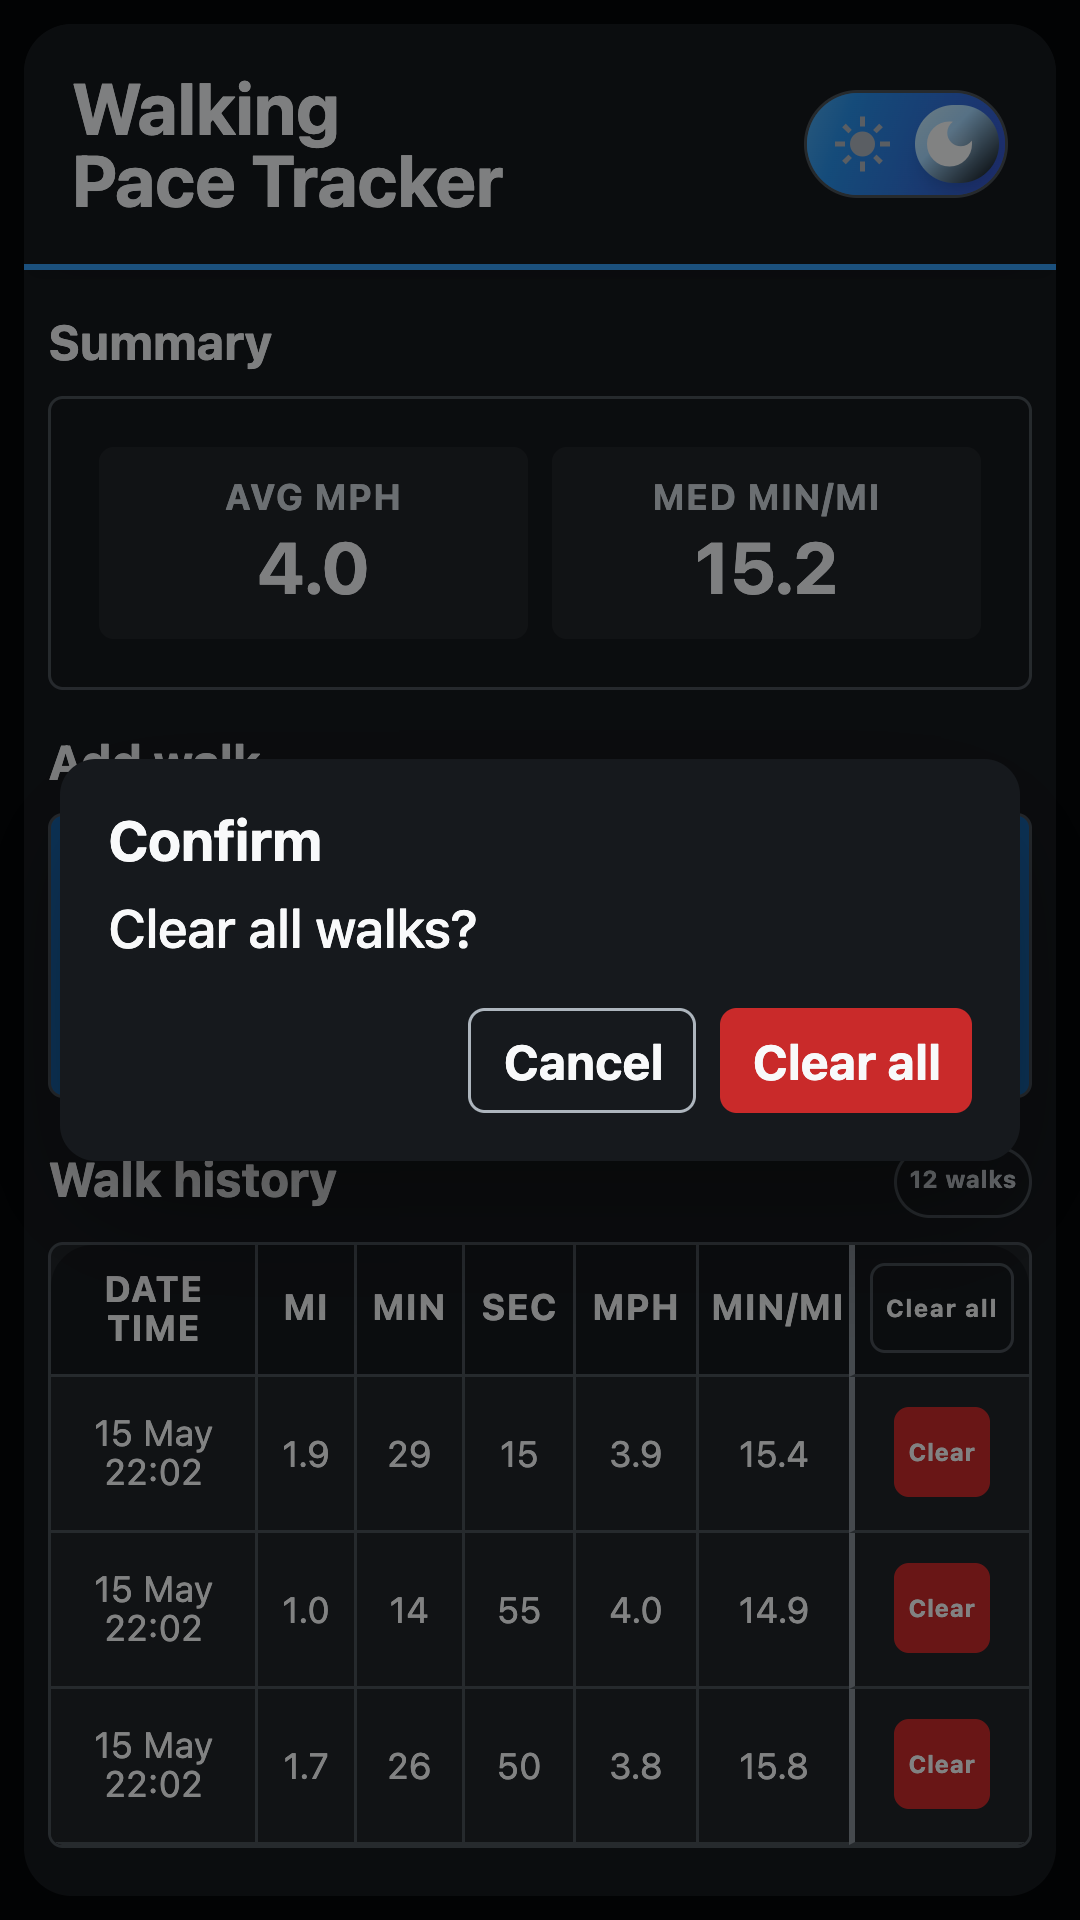
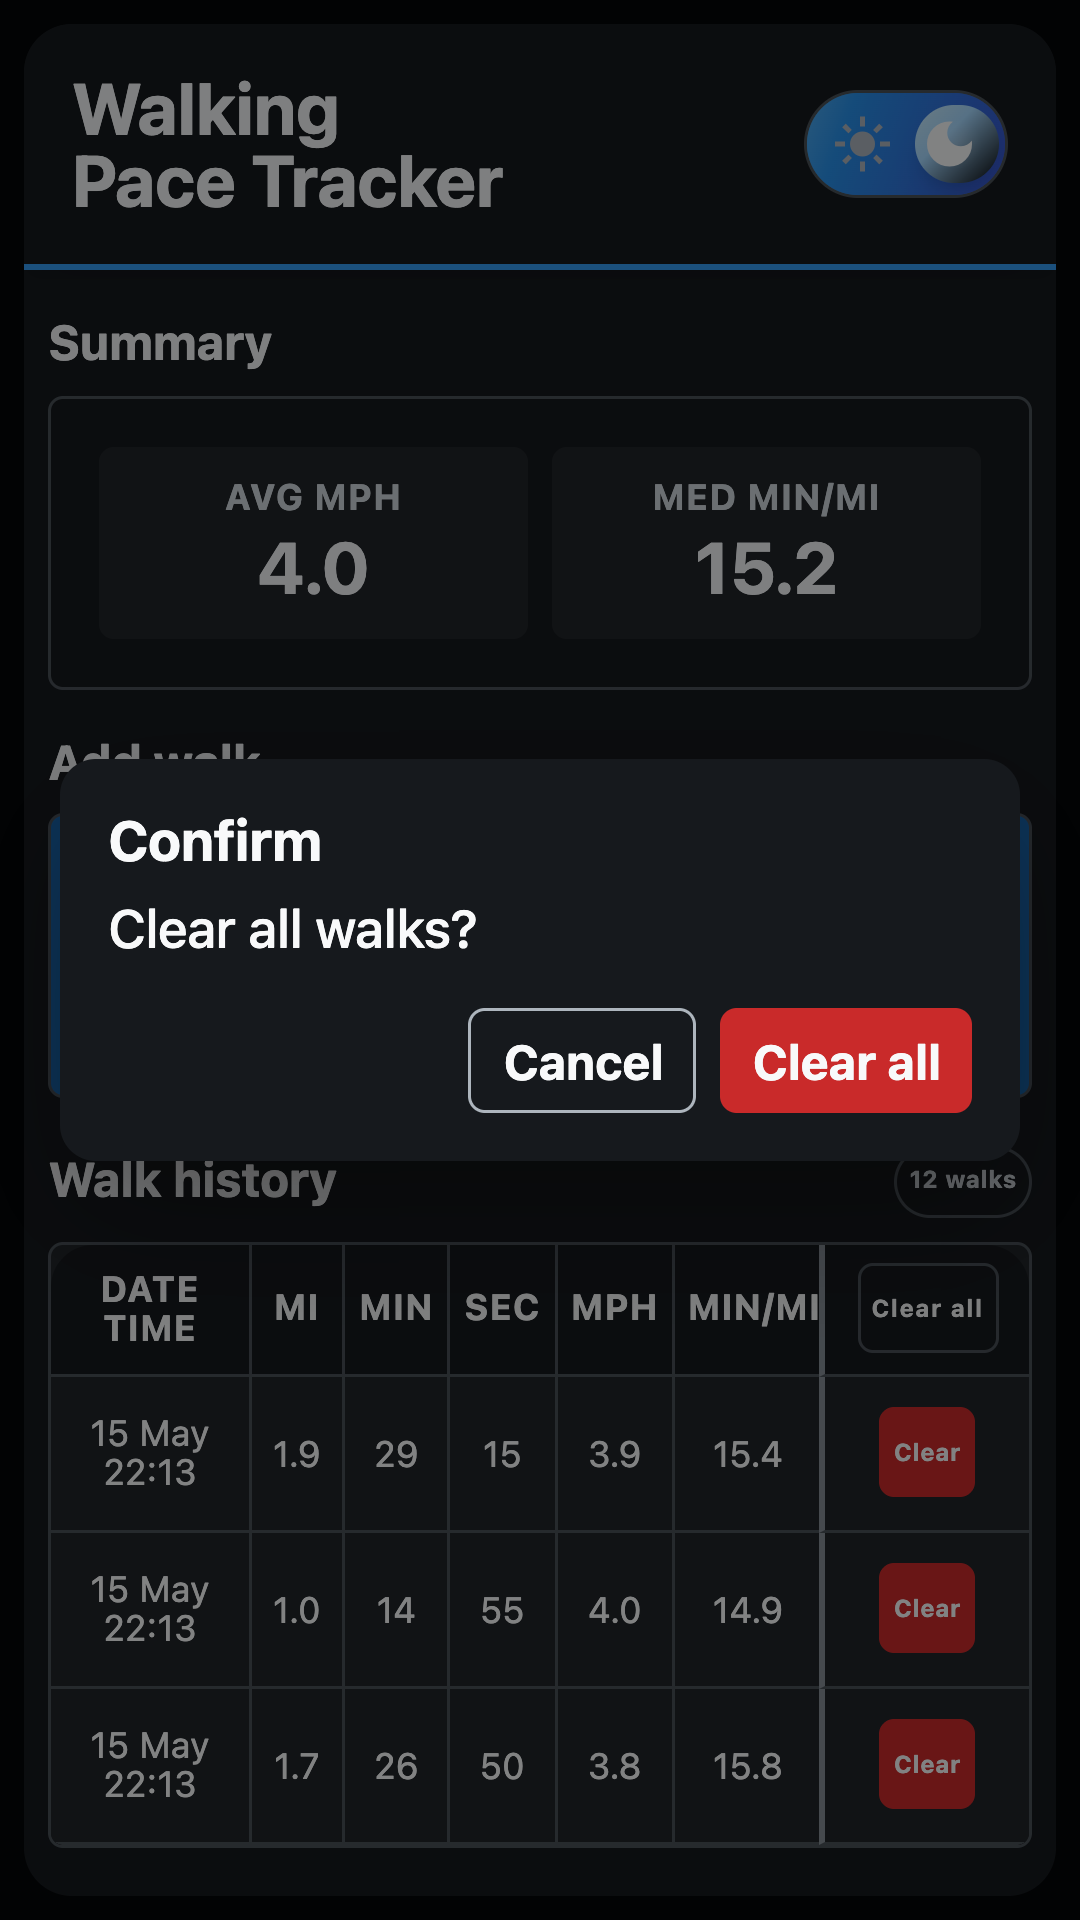
fix(table): align scroll body with header

diff --git a/src/components/molecules/ScrollableTable/ScrollableTable.styles.ts b/src/components/molecules/ScrollableTable/ScrollableTable.styles.ts
@@ -15,7 +15,8 @@ export const scrollableTableStyles = /* css */`
   background-color: transparent;
   border: 0;
   display: flex;
-  flex: 1 1 auto;
+  flex: 1 1 0;
+  height: 100%;
   min-height: var(--scrollable-table-min-height);
   min-width: 0;
   outline: 0;
@@ -43,6 +44,11 @@ export const scrollableTableStyles = /* css */`
 .scrollable-table tbody {
   display: block;
   min-width: 0;
+}
+
+.scrollable-table thead {
+  overflow-y: auto;
+  scrollbar-gutter: stable;
 }
 
 .scrollable-table tbody {
@@ -133,7 +139,7 @@ export const scrollableTableStyles = /* css */`
   border-inline-start: var(--border-size-2) solid var(--table-action-divider);
 }
 
-@media (max-width: 480px) {
+@media (max-width: 640px) {
   .scrollable-table-container {
     --scrollable-table-header-height: var(--scrollable-table-mobile-header-height);
     --scrollable-table-row-height: var(--scrollable-table-mobile-row-height);

diff --git a/src/components/templates/Layout/Layout.test.tsx b/src/components/templates/Layout/Layout.test.tsx
@@ -35,6 +35,7 @@ describe("Layout", () => {
     expect(html).toContain("--scrollable-table-header-height: 3.5rem");
     expect(html).toContain("--scrollable-table-row-height: 3rem");
     expect(html).toContain("--scrollable-table-inner-radius: calc(var(--radius-2) - var(--border-size-1))");
+    expect(html).toContain("flex: 1 1 0;");
     expect(html).toContain("height: 100%;");
     expect(html).toContain("--card-min-height: calc(100dvh - (var(--page-gutter) * 2))");
     expect(html).toContain("border: var(--border-size-1) solid var(--table-border);");

diff --git a/src/components/organisms/WalksTable/WalksTable.tsx b/src/components/organisms/WalksTable/WalksTable.tsx
@@ -21,7 +21,7 @@ const mobileColumnsTemplate = [
   "minmax(0, 0.66fr)",
   "minmax(0, 0.74fr)",
   "minmax(0, 0.9fr)",
-  "minmax(3.75rem, 0.95fr)",
+  "minmax(4.35rem, 0.95fr)",
 ].join(" ");
 
 export const WalksTable = ({ walks }: { walks: WalkWithStats[] }) => {

diff --git a/src/components/pages/Home/Home.styles.ts b/src/components/pages/Home/Home.styles.ts
@@ -47,12 +47,14 @@ export const homeStyles = /* css */`
 .page-section:last-child {
   flex: 1 1 0;
   min-height: 0;
+  overflow: hidden;
 }
 
 #walks-list {
   display: flex;
   flex: 1 1 0;
   min-height: 0;
+  overflow: hidden;
 }
 
 .section-title {

diff --git a/src/components/organisms/WalksTable/WalksTable.styles.ts b/src/components/organisms/WalksTable/WalksTable.styles.ts
@@ -12,6 +12,7 @@ export const walksTableStyles = /* css */`
   flex-direction: column;
   gap: var(--size-3);
   min-height: 0;
+  overflow: hidden;
   width: 100%;
 }
 
